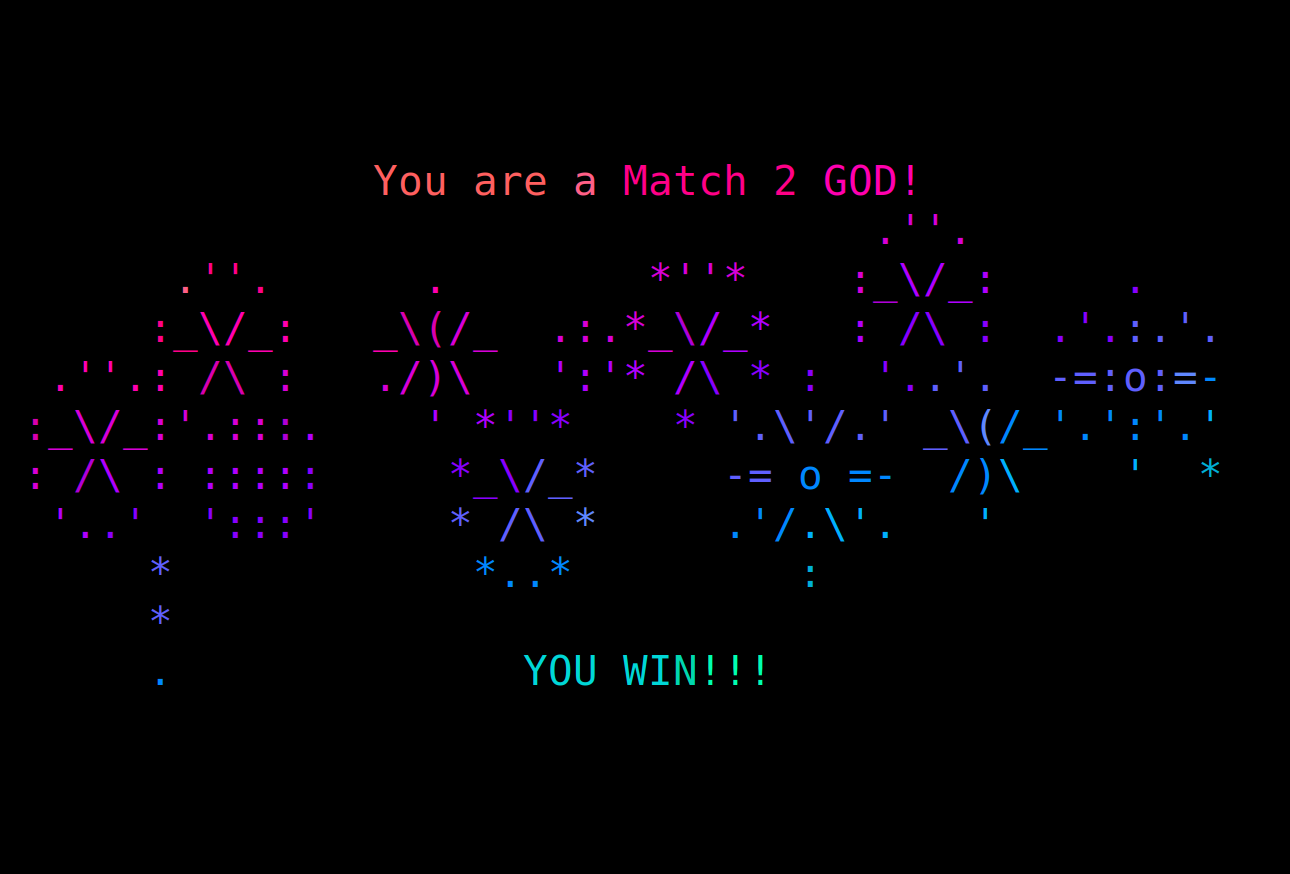
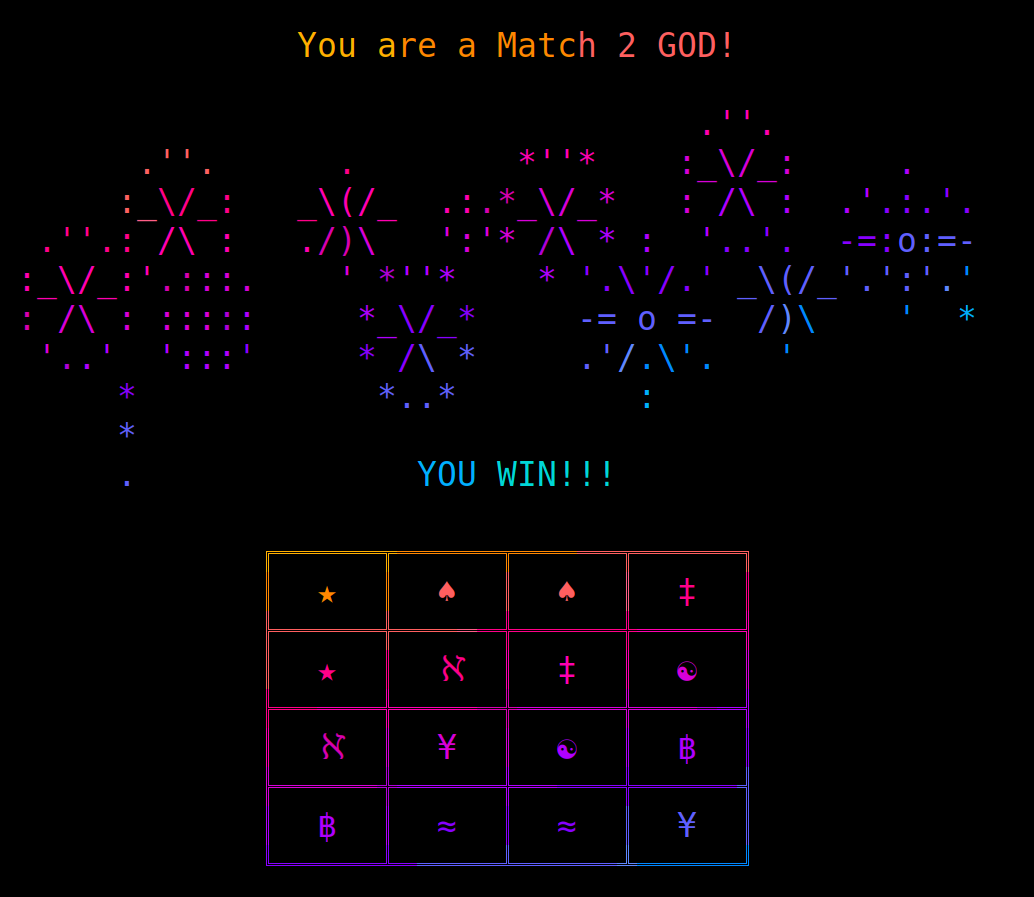
refactor, add cute end sequence board graphics

diff --git a/memory.rb b/memory.rb
@@ -11,7 +11,6 @@ class Memory
 
   def initialize(board = nil)
     @board = board || Array.new(16, " ")
-    # @board = board || " _ " * 16
     @cards = generate_cards
     @cards.shuffle!
     @game_over = false
@@ -20,21 +19,18 @@ class Memory
   def play
     clear
     populate_board
-
-    clear
-    # reveal
-    # end_screen
-    # rainbow
     start_screen
-    sleep (2)
-    # until game_over? == true
+    sleep 2
+
     until game_over?
       take_turn
     end
+
     clear
     reveal
     end_screen
-    sleep (60)
+    rainbow
+    sleep 30
   end
 
   def game_over?
@@ -101,30 +97,6 @@ class Memory
     puts
   end
 
-#   def reveal
-#     (0...16).each do |i|
-#       @board[i] = " #{@cards[i].image} "
-#       end
-#   end
-#
-#   def rainbow
-#     # "I always look for rainbows..."
-#     colorizer = Lolize::Colorizer.new
-#       solved = "
-#              ╔═════╦═════╦═════╦═════╗
-#              ║ #{@board[0]} ║ #{@board[1]} ║ #{@board[2]} ║ #{@board[3]} ║
-#              ╠═════╬═════╬═════╬═════╣
-#              ║ #{@board[4]} ║ #{@board[5]} ║ #{@board[6]} ║ #{@board[7]} ║
-#              ╠═════╬═════╬═════╬═════╣
-#              ║ #{@board[8]} ║ #{@board[9]} ║ #{@board[10]} ║ #{@board[11]} ║
-#              ╠═════╬═════╬═════╬═════╣
-#              ║ #{@board[12]} ║ #{@board[13]} ║ #{@board[14]} ║ #{@board[15]} ║
-#              ╚═════╩═════╩═════╩═════╝
-#
-# "
-#     colorizer.write "#{solved}"
-#   end
-
   def take_turn
     clear
     render_board
@@ -146,21 +118,19 @@ class Memory
       puts
       Card.decrement_count
       puts " Card count is: #{Card.print_count()}"
-      sleep(2)
+      sleep 2
       @board[@pick1] = " #{@cards[@pick1].image} "
       @board[@pick2] = " #{@cards[@pick2].image} "
     else
       puts " No match."
-      sleep(3)
+      sleep 3
       reset_card(@pick1)
       reset_card(@pick2)
     end
   end
 
   def reset_card(square)
-    # then converted block to ternary operator
-    # (not sure if improvement...)
-    # @board[square] = (square <= 9) ? " #{square} " : " #{square}"
+    # converted block to ternary operator (not sure if improvement...)
     @board[square] = square <= 9 ? " #{square} " : " #{square}"
 
     # https://www.rubydoc.info/github/bbatsov/RuboCop/RuboCop/Cop/Style/ConditionalAssignment
@@ -170,6 +140,12 @@ class Memory
     # else
     #   @board[square] = " #{square}"
     # end
+  end
+
+  def reveal
+    (0...16).each do |i|
+      @board[i] = " #{@cards[i].image} "
+    end
   end
 
   def clear
@@ -217,12 +193,6 @@ class Memory
     colorizer.write "#{congrats}"
   end
 
-  def reveal
-    (0...16).each do |i|
-      @board[i] = " #{@cards[i].image} "
-    end
-  end
-
   def rainbow
     # "I always look for rainbows..."
     colorizer = Lolize::Colorizer.new
@@ -241,31 +211,11 @@ class Memory
     colorizer.write "#{solved}"
   end
 
+  private :reveal, :rainbow
 
-#   def start_screen
-#     colorizer = Lolize::Colorizer.new
-#     splash = "
-#
-#                    _       _     ___
-#                   | |     | |   |__ \\
-#    _ __ ___   __ _| |_ ___| |__    ) |
-#   | '_ ` _ \\ / _` | __/ __| '_ \\  / /
-#   | | | | | | (_| | || (__| | | |/ /_
-#   |_| |_| |_|\\__,_|\\__\\___|_| |_|____|
-#
-#   ℵ    ‡    ≈    ¥    ♠    ฿    ☯    ★
-#
-#
-# "
-#     colorizer.write "#{splash}"
-#   end
 end
-
 
 if __FILE__ == $PROGRAM_NAME
   t = Memory.new
   t.play
 end
-
-  # t = Memory.new
-  # t.play

diff --git a/card.rb b/card.rb
@@ -2,7 +2,7 @@
 
 class Card
 
-# Initialize our class variables
+  # initialize class variables
   @@count = 0
 
   attr_accessor :image, :visible
@@ -14,12 +14,19 @@ class Card
   end
 
   def self.print_count()
-    # puts "Card count is: #@@count"
     @@count
   end
 
   def self.decrement_count
     @@count -= 2
   end
+
+  # def self.visible?
+  #   @visible
+  # end
+  #
+  # def self.hide
+  #   @visible = true
+  # end
 
 end

diff --git a/README.md b/README.md
@@ -9,10 +9,10 @@ To play:
 <br />
 
 <p align="center">
-  <img src="https://github.com/jlollis/memory/blob/master/match2-start.png" width=60%>
-  <img src="https://github.com/jlollis/memory/blob/master/match2-gameplay.png" width=60%>
-  <img src="https://github.com/jlollis/memory/blob/master/match2-gameplay2.png" width=60%>
-  <img src="https://github.com/jlollis/memory/blob/master/match2-end-screen.png" width=60%>
+  <img src="https://github.com/jlollis/memory/blob/master/match2-start.png" width=65%>
+  <img src="https://github.com/jlollis/memory/blob/master/match2-gameplay.png" width=65%>
+  <img src="https://github.com/jlollis/memory/blob/master/match2-gameplay2.png" width=65%>
+  <img src="https://github.com/jlollis/memory/blob/master/match2-end-screen.png" width=65%>
 </p>
 <p align="center">
 </p>
